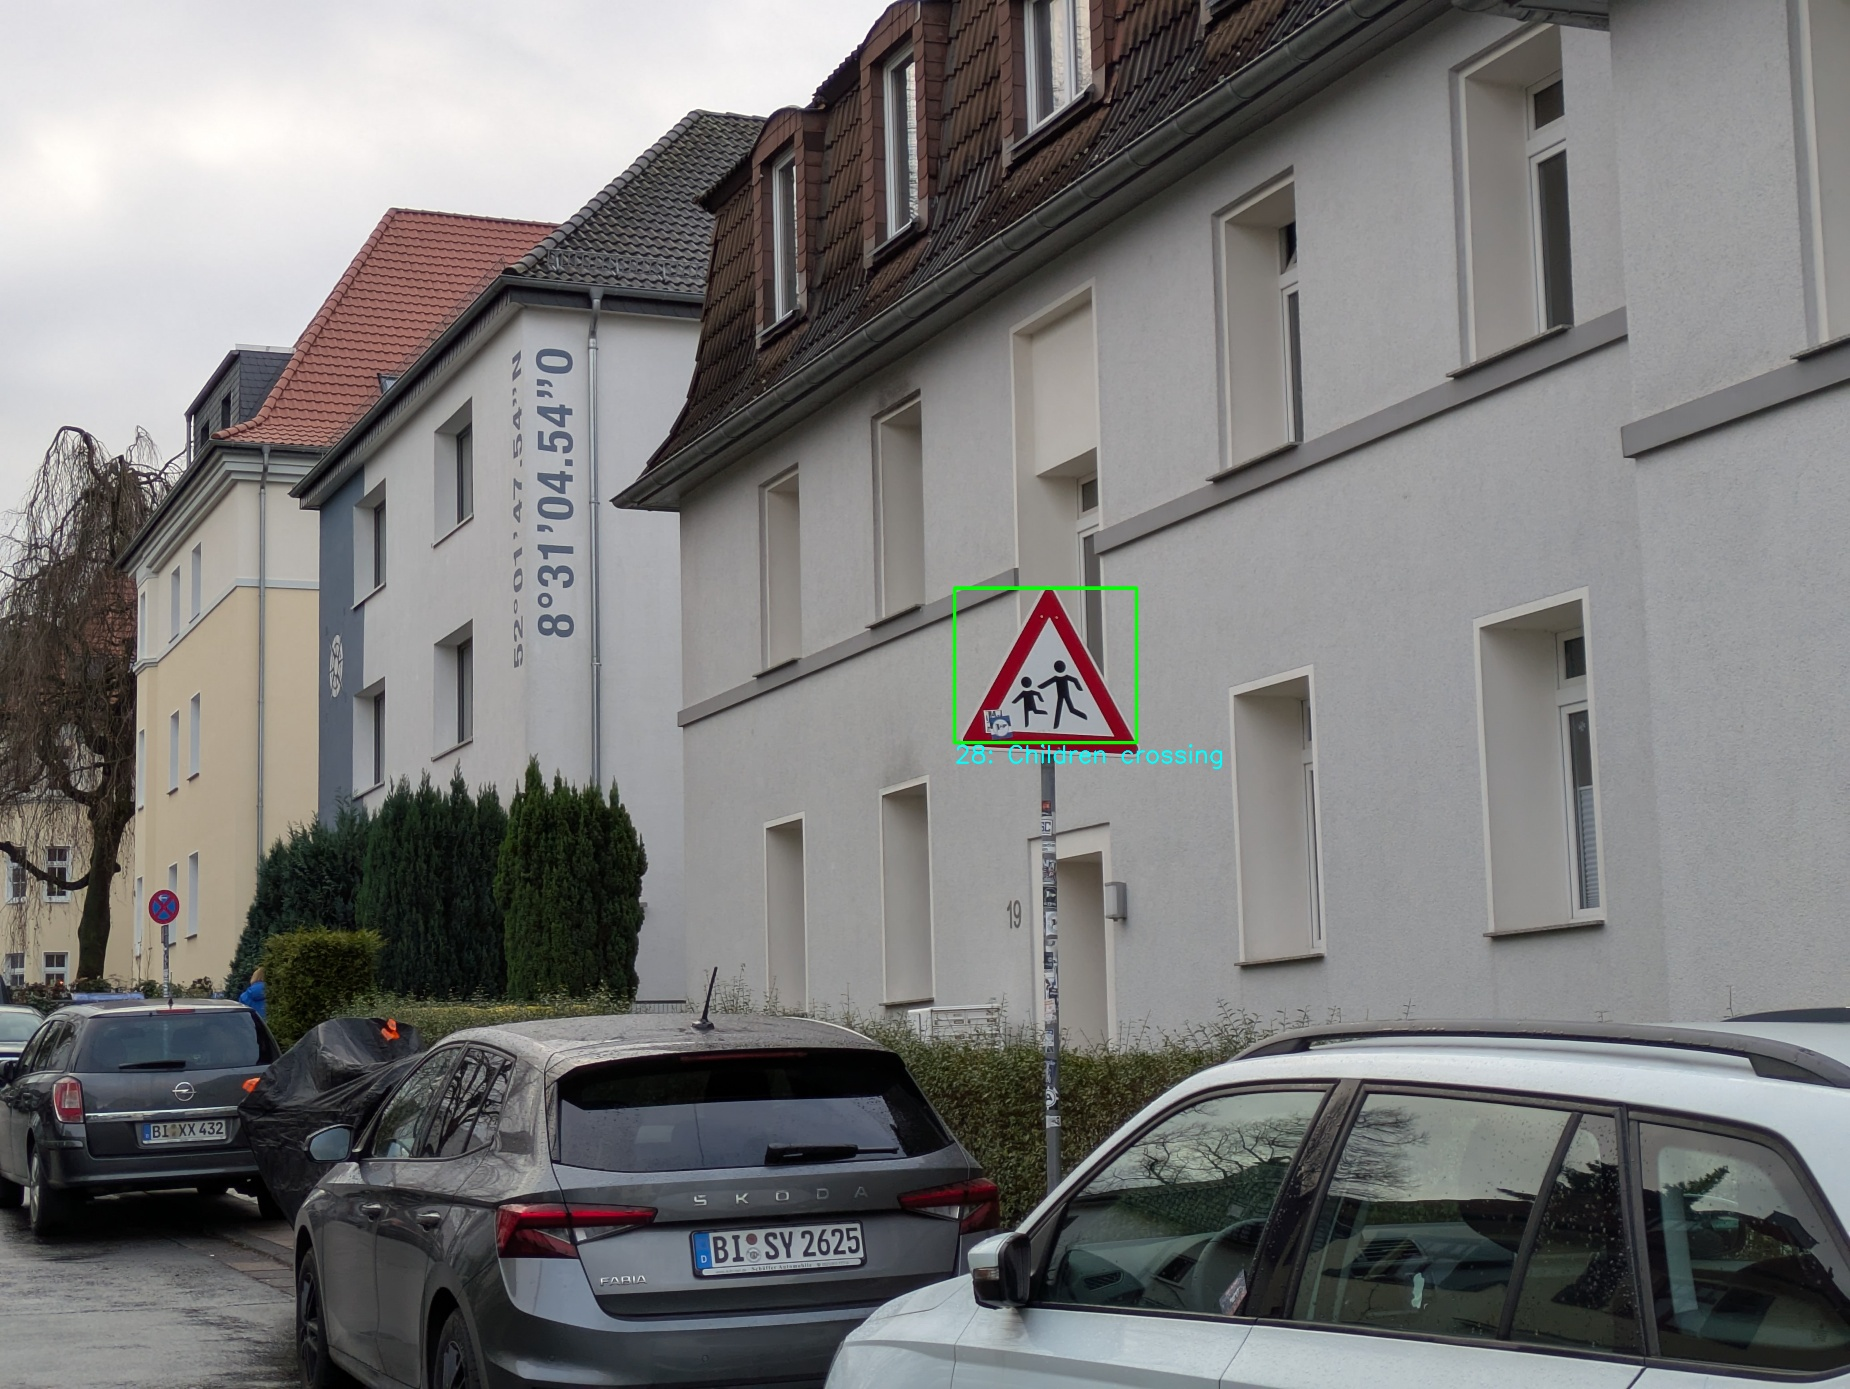
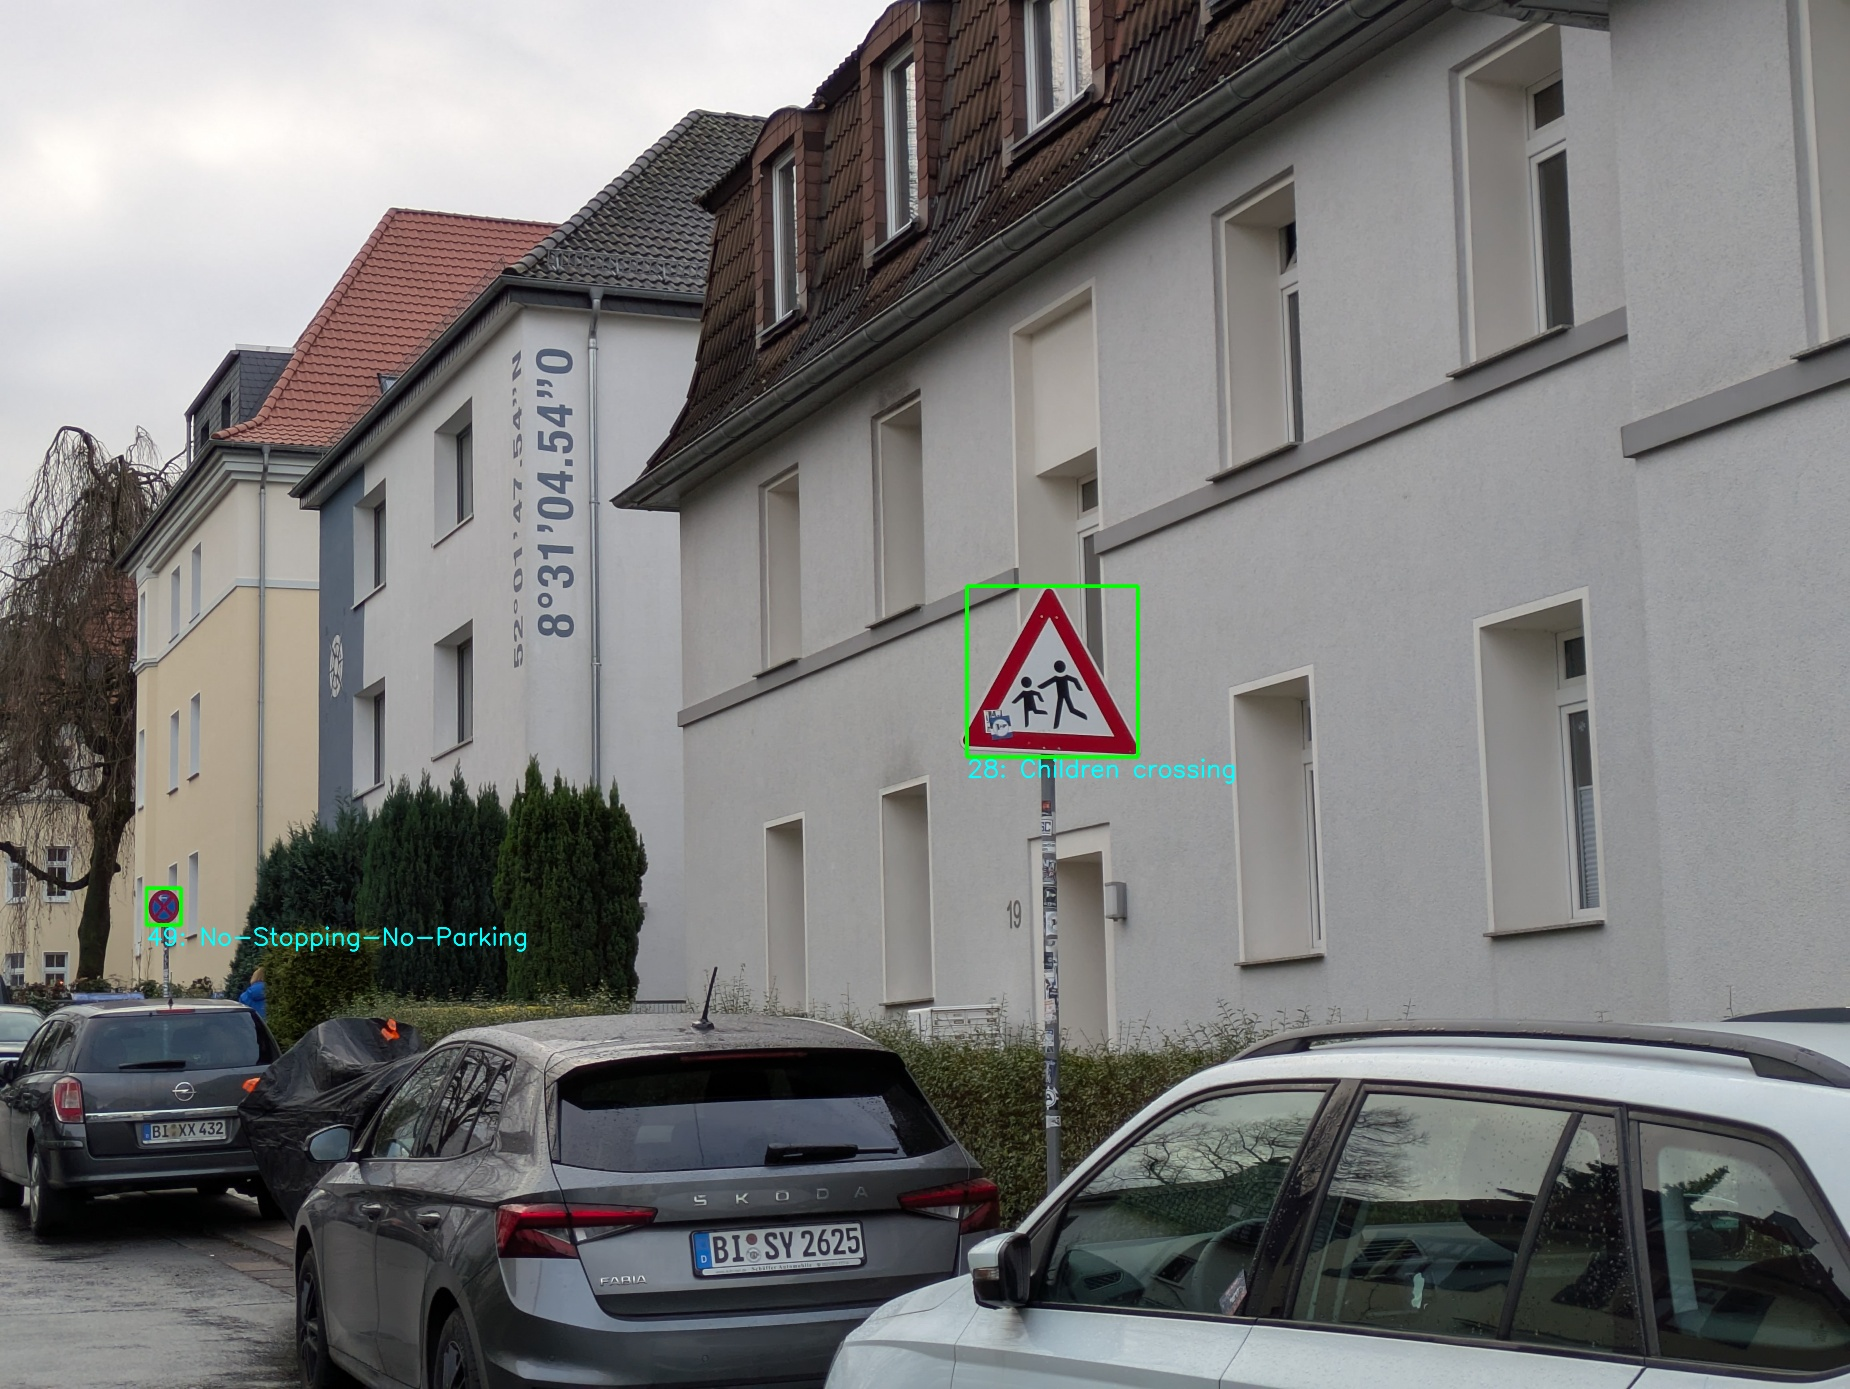
fixed detection of Yolo with WBF and padding

Changed region(s): [[0.493, 0.4334, 0.6778, 0.5572], [0.0616, 0.6501, 0.2773, 0.6811], [0.5238, 0.4024, 0.6162, 0.4334]]

diff --git a/src/classifier/pytorch/det_classy_in_one_wbf.py b/src/classifier/pytorch/det_classy_in_one_wbf.py
@@ -43,30 +43,84 @@ def resize_with_aspect(img_tensor, target = 60):
 
     return img.squeeze(0)
 
+def iou_box(box,boxes):
+    x1 = np.maximum(box[0], boxes[:, 0])
+    y1 = np.maximum(box[1], boxes[:, 1])
+    x2 = np.minimum(box[2], boxes[:, 2])
+    y2 = np.minimum(box[3], boxes[:, 3])
+    w  = np.maximum(0.0, x2 - x1)
+    h  = np.maximum(0.0, y2 - y1)
+    intersection_area = w * h
+
+    box_area = (box[2]-box[0])*(box[3]-box[1])
+    boxes_area = ((boxes[:, 2]-boxes[:, 0])*(boxes[:, 3]-boxes[:, 1]))
+    union = box_area + boxes_area - intersection_area
+    return intersection_area / np.maximum(union,1e-6)
+
+def wbf(df,iou_threshold):
+    if df.empty:
+        return df
+    df = df.sort_values("confidence",ascending = False).reset_index(drop=True)
+    used = np.zeros(len(df), dtype=bool)
+    fused_rows = []
+    
+    for i in range(len(df)):
+        if used[i]:
+            continue
+        box_i = df.loc[i,["xmin","ymin","xmax","ymax"]].to_numpy(dtype=np.float32)
+        cand = []
+        scores = []
+
+        for j in range(i,len(df)):
+            if used[j]:
+                continue
+            
+            box_j = df.loc[j,["xmin","ymin","xmax","ymax"]].to_numpy(dtype=np.float32)
+            iou = iou_box(box_i,box_j[None, :])[0]
+            if iou >= iou_threshold:
+                used[j] = True
+                cand.append(box_j)
+                scores.append(float(df.loc[j, "confidence"]))
+        
+        weights = np.array(scores, dtype=np.float32)
+        cand = np.array(cand, dtype=np.float32)
+        fused_box = (cand * weights[:,None]).sum(axis = 0) / weights.sum()
+        fused_rows.append({"xmin": float(fused_box[0]),"ymin": float(fused_box[1]),"xmax": float(fused_box[2]),"ymax": float(fused_box[3]),"confidence":float(np.max(weights))})
+
+    return pd.DataFrame(fused_rows)
 
 
-def do_tiling_det(model, img_path, tile_x=1000, tile_y = 750 , overlap= 0.2):
+
+def do_tiling_det(model, img_path, tile_x=640, tile_y = 640 , overlap= 0.3, pad = 100):
 
     bgr_img = cv2.imread(str(img_path))
     if bgr_img is None:
-        return pd.DataFrame(columns=["xmin","ymin","xmax","ymax","confidence","class","name"])
+        return pd.DataFrame(columns=["xmin","ymin","xmax","ymax","confidence"])
     rgb_img = cv2.cvtColor(bgr_img, cv2.COLOR_BGR2RGB)
     h,w = rgb_img.shape[:2]
 
     stride_x = int(tile_x * (1-overlap))
-    stride_x = max(1, stride_x)
+    #stride_x = max(1, stride_x)
     stride_y = int(tile_y * (1-overlap))
-    stride_y = max(1, stride_y)
+    #stride_y = max(1, stride_y)
 
 
     img_df = []
 
     for y in range(0,h,stride_y):
         for x in range(0,w,stride_x):
+            x_orig = x
+            y_orig = y
             y1 = min(y + tile_y,h)
             x1 = min(x + tile_x,w)
 
-            tile_img = rgb_img[y:y1,x:x1]
+            pad_x_orig = max(0,x_orig - pad)
+            pad_y_orig = max(0,y_orig - pad)
+            pad_x1 = min(w,x1 + pad)
+            pad_y1 = min(h,y1 + pad)
+
+            tile_img = rgb_img[pad_y_orig:pad_y1,pad_x_orig:pad_x1]
+
             if tile_img.size == 0:
                 continue
 
@@ -75,25 +129,37 @@ def do_tiling_det(model, img_path, tile_x=1000, tile_y = 750 , overlap= 0.2):
             
             df = results.pandas().xyxy[0]
             if df.empty:
-                continue
+               continue
+
 
             df = df.copy()
-            df["xmin"] = df["xmin"] + x
-            df["xmax"] = df["xmax"] + x
-            df["ymin"] = df["ymin"] + y
-            df["ymax"] = df["ymax"] + y
-            img_df.append(df)
+            df["xmin"] += pad_x_orig
+            df["xmax"] += pad_x_orig
+            df["ymin"] += pad_y_orig
+            df["ymax"] += pad_y_orig
+
+            cx = (df["xmin"] + df["xmax"]) / 2
+            cy = (df["ymin"] + df["ymax"]) / 2
+            retain = (cx >= x_orig) & (cx <= x1) & (cy >= y_orig) & (cy <= y1)
+            df = df[retain]
+
+            if not df.empty:
+                img_df.append(df)
+
+             
+ #           df = df.copy()
+  #          df["xmin"] = df["xmin"] + x
+ #           df["xmax"] = df["xmax"] + x
+  #          df["ymin"] = df["ymin"] + y
+  #          df["ymax"] = df["ymax"] + y
+  #          img_df.append(df)
+
 
     if not img_df:
-        return pd.DataFrame(columns=["xmin","ymin","xmax","ymax","confidence","class","name"])
+        return pd.DataFrame(columns=["xmin","ymin","xmax","ymax","confidence"])
     
     merged = pd.concat(img_df, ignore_index=True)
-
-    boxes = torch.tensor(merged[["xmin","ymin","xmax","ymax"]].to_numpy(dtype=np.float32))
-    scores = torch.tensor(merged["confidence"].to_numpy(dtype=np.float32))
-
-    retain = ops.nms(boxes,scores,iou_threshold=0.3)
-    merged = merged.iloc[retain.numpy()].reset_index(drop = True)
+    merged = wbf(merged,iou_threshold=0.1)
 
     return merged
 
@@ -106,7 +172,7 @@ def do_tiling_det(model, img_path, tile_x=1000, tile_y = 750 , overlap= 0.2):
 model_segmentation = TS_segmenter(0.5)
 
 model = s_custom_model(num_classes,img_height,img_width)
-model_classifier = TS_classifier(model,0.8)
+model_classifier = TS_classifier(model,0.9)
 img_folder = Path("/home/panda/projects/german-street-sign/Data/raw_data/final_test_img")
 
 with open(info_file,'a') as f:
@@ -122,7 +188,7 @@ for img_path in sorted(img_folder.glob("*.jpg")):
         f.write("\n")
 
     #result_segmentation = model_segmentation.do_detection(img_path)
-    result_detection = do_tiling_det(model_segmentation.model, img_path, tile_x = 800, tile_y = 600, overlap = 0.2 )
+    result_detection = do_tiling_det(model_segmentation.model, img_path, tile_x = 800, tile_y = 600, overlap = 0.2, pad=100 )
     det_num = 0
     img = cv2.imread(str(img_path))
     img = cv2.cvtColor(img, cv2.COLOR_BGR2RGB)
@@ -163,7 +229,7 @@ for img_path in sorted(img_folder.glob("*.jpg")):
         pred_id = class_ids.item()
         pred_prob = prob_vals.item()
         pred_label = class_names.get(pred_id, f"Unknown({pred_id})")
-        if pred_prob >= .70:
+        if pred_prob >= .87:
             with open(info_file,'a') as f:
                 f.write(f"Class No. {pred_id}: {pred_label}, Probability: {pred_prob}\n")
 

diff --git a/src/Detection/custom_detector/detection_data.py b/src/Detection/custom_detector/detection_data.py
@@ -1,0 +1,80 @@
+from pathlib import Path
+import torch
+import cv2
+import numpy as np
+
+class CustDetDataset(torch.utils.data.Dataset):
+    def __init__(self,img_dir,label_dir,transform=None,img_extensions = (".jpg",".png")):
+        self.img_dir = Path(img_dir)
+        self.label_dir = Path(label_dir)
+        self.transforms = transform
+        self.images = []
+        for ext in img_extensions:
+            self.images.extend(self.img_dir.glob(f"*.{ext}"))
+    
+    def __len__(self):
+        return len(self.images)
+    
+    def __getitem__(self, index):
+        img_path = self.images[index]
+        img = cv2.imread(str(img_path))
+        img = cv2.cvtColor(img,cv2.COLOR_BGR2RGB)
+        h,w = img.shape[:2]
+
+        label_path = self.label_dir / f"{img_path.stem}.txt"
+        boxes = []
+        labels = []
+        if label_path.exists():
+            for l in label_path.read_text().strip().splitlines():
+                if not l:
+                    continue
+                cls, cx, cy, cw, ch = map(float, l.split())
+                x1 = (cx - cw / 2.0 ) * w
+                x2 = (cx + cw / 2.0 ) * w 
+                y1 = (cy - ch / 2.0 ) * h
+                y2 = (cy + ch / 2.0 ) * h
+                boxes.append([x1,y1,x2,y2])
+                labels.append(int(cls))
+
+        target = {"boxes":torch.tensor(boxes, dtype=torch.float32),
+                  "labels":torch.tensor(labels, dtype=torch.int64),
+                  "image_id":torch.tensor([index]),
+                  "img_orig_size":torch.tensor([h,w]),
+                  "size":torch.tensor([h,w])}
+        
+        if self.transforms:
+            img, target = self.transforms(img, target)
+
+        return img, target
+
+class DetrTransform:
+    def __init__(self,size = 640,max_size = 1000, mean=[0.485, 0.456, 0.406], std_dev =[0.229, 0.224, 0.225]):
+        self.size = size
+        self.max_size = max_size
+        self.mean = np.array(mean, dtype = np.float32)
+        self.std_dev = np.array(std_dev, dtype= np.float32)
+
+    def __call__(self, img, target):
+        h,w = img.shape[:2]
+        scale = self.size / min(h,w)
+        if max(h,w) * scale > self.max_size:
+            scale = self.max_size / max(h,w)
+        new_w, new_h = int(round(w * scale)), int(round(h * scale))
+        img_resize = cv2.resize(img, (new_w,new_h), interpolation=cv2.INTER_LINEAR)
+
+        if target["boxes"].numel() > 0:
+            boxes = target["boxes"]
+            boxes = boxes * torch.tensor([scale,scale,scale,scale])
+            target["boxes"] = boxes
+        target["size"] =  torch.tensor([new_h,new_w])
+
+        img = img_resize.astype(np.float32) / 255.0
+        img = (img - self.mean) / self.std_dev
+        img = torch.from_numpy(img).permute(2,0,1).contiguous()
+
+        return img, target
+    
+def detr_collate(batch):
+    images, targets = zip(*batch)
+    return list(images), list(targets)
+

diff --git a/src/Detection/custom_detector/detection_resnet_fpn_backbone.py b/src/Detection/custom_detector/detection_resnet_fpn_backbone.py
@@ -1,0 +1,48 @@
+import torch
+import torchvision
+import torch.nn as nn
+
+class ResNet50_FPN(nn.Module):
+    def __init__(self, out_channels = 256, pretrained = True):
+        super().__init__()
+
+        backbone = torchvision.models.resnet50(weights = "IMAGENET1K_V1" if pretrained else None)
+
+        self.stem = nn.Sequential(
+                            backbone.conv1,backbone.bn1,backbone.relu,backbone.maxpool)
+
+        self.layer1 = backbone.layer1
+        self.layer2 = backbone.layer2
+        self.layer3 = backbone.layer3
+        self.layer4 = backbone.layer4 
+
+        self.lateral2 = nn.Conv2d(256, out_channels, kernel_size=1)    
+        self.lateral3 = nn.Conv2d(512, out_channels, kernel_size=1)
+        self.lateral4 = nn.Conv2d(1024, out_channels, kernel_size=1)
+        self.lateral5 = nn.Conv2d(2048, out_channels, kernel_size=1)
+        
+        self.out2 = nn.Conv2d(out_channels, out_channels, kernel_size=3,padding=1)
+        self.out3 = nn.Conv2d(out_channels, out_channels, kernel_size=3,padding=1)
+        self.out4 = nn.Conv2d(out_channels, out_channels, kernel_size=3,padding=1)
+        self.out5 = nn.Conv2d(out_channels, out_channels, kernel_size=3,padding=1)
+
+
+    def fpn(self,x):
+        x = self.stem(x)
+        c2 = self.layer1(x)
+        c3 = self.layer2(c2)
+        c4 = self.layer3(c3)
+        c5 = self.layer4(c4)
+
+        p5 = self.lateral5(c5)
+        p4 = self.lateral4(c4) + nn.functional.interpolate(p5, size= c4.shape[-2:], mode="nearest")
+        p3 = self.lateral3(c3) + nn.functional.interpolate(p4, size= c3.shape[-2:], mode="nearest")
+        p2 = self.lateral2(c2) + nn.functional.interpolate(p3, size= c2.shape[-2:], mode="nearest")
+
+        p5 = self.out5(p5)
+        p4 = self.out4(p4)
+        p3 = self.out3(p3)
+        p2 = self.out2(p2)
+
+
+        return [p2,p3,p4,p5]

diff --git a/src/classifier/pytorch/model_test_whole_torch.py b/src/classifier/pytorch/model_test_whole_torch.py
@@ -7,14 +7,16 @@ class TS_segmenter:
         self.model = torch.hub.load(
                     '/home/panda/projects/german-street-sign/yolov5',
                     'custom',  
-                    path='/home/panda/projects/german-street-sign/yolov5/runs/train/mask_yolov5m_new/weights/best.pt',  
+                    path='/home/panda/projects/german-street-sign/models/yolo5m_multiscale_weig.pt',  
  #                   path='/home/panda/projects/german-street-sign/yolov5/runs/train/mask_yolov5s_new/weights/best.pt',
                     source='local'  
                     )
         self.model.eval()
         self.model.conf = conf_threshold
+        
+        
 
-    def  do_prediction(self, img_path):
+    def  do_detection(self, img_path):
 
         
         with torch.inference_mode():
@@ -41,7 +43,7 @@ class TS_classifier:
         self.model_classifier.conf = conf_threshold
 
 
-    def  do_prediction(self, img_path):
+    def  do_classification(self, img_path):
 
         
         with torch.inference_mode():

diff --git a/src/Detection/custom_detector/detection_model.py b/src/Detection/custom_detector/detection_model.py
@@ -1,0 +1,5 @@
+import torch
+import torch.nn as nn
+import torch.nn.functional as F
+
+class DeformEncLayer(nn.Module):
